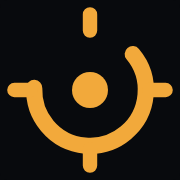
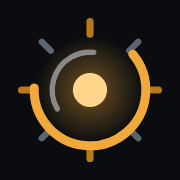
Give the skippy skin the agent-pods crest it came from
The predecessor's icon carried the full crest — halo, counter-rotating
steel ring, cardinal and diagonal graduations — and Golem's rewrite kept
only a simplified reticle. The owner prefers the original, so the SVG
comes back verbatim (comments translated, public repo) and the three
committed rasters are re-rendered from it in the bench's Chromium
container, since the image ships no rasteriser on purpose.

Changed region(s): [[0.0278, 0.1944, 0.9722, 0.9722], [0.4444, 0.0278, 0.5556, 0.2222], [0.1944, 0.1944, 0.3056, 0.3056]]

diff --git a/.agent/status.md b/.agent/status.md
@@ -1,5 +1,11 @@
 # Status — Golem
-> MàJ : 2026-08-28
+> MàJ : 2026-08-29
+
+Chantier du 29/08 — le skin skippy reprend le **blason d'agent-pods**
+(halo, double anneau, graduations) à la place du réticule simplifié :
+`icon.svg` transplanté (commentaires passés en anglais, repo public) et les
+trois rasters (180/192/512) re-rendus via le Chromium du bench — rien
+d'installé sur la machine, l'image n'embarque toujours pas de rastériseur.
 
 Chantier du 28/08 — **l'index des pages devient vivant** (le bus d'événements
 que DESIGN.md promettait depuis le début, jamais construit). Le bug : l'agent
